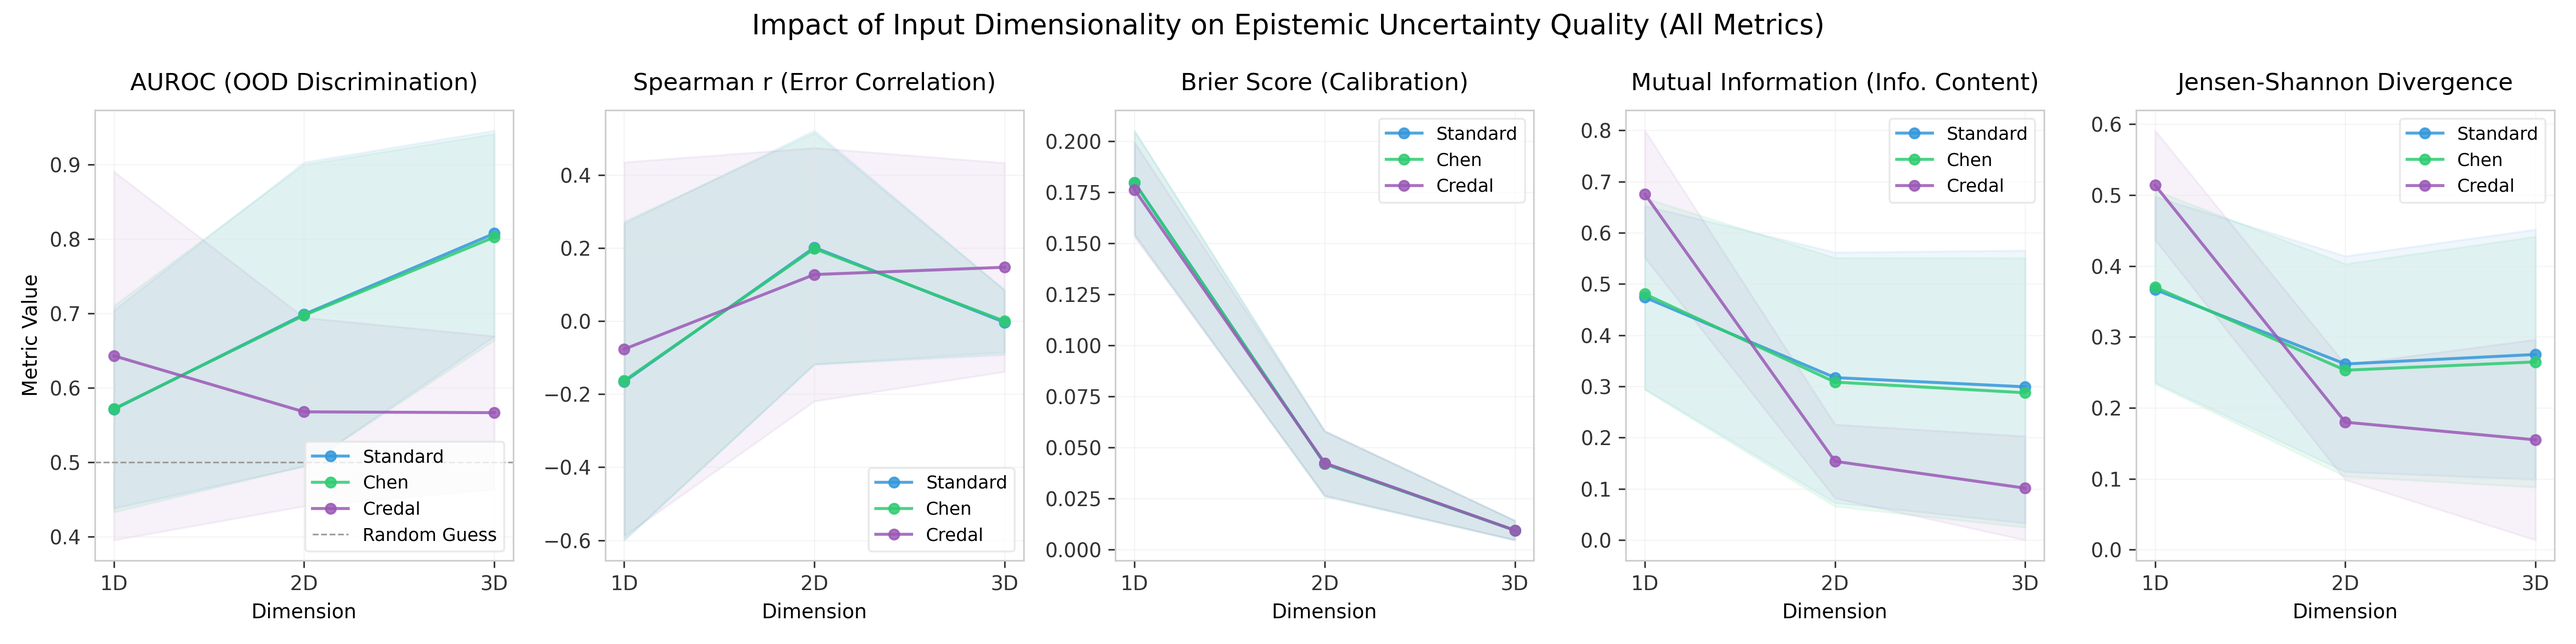
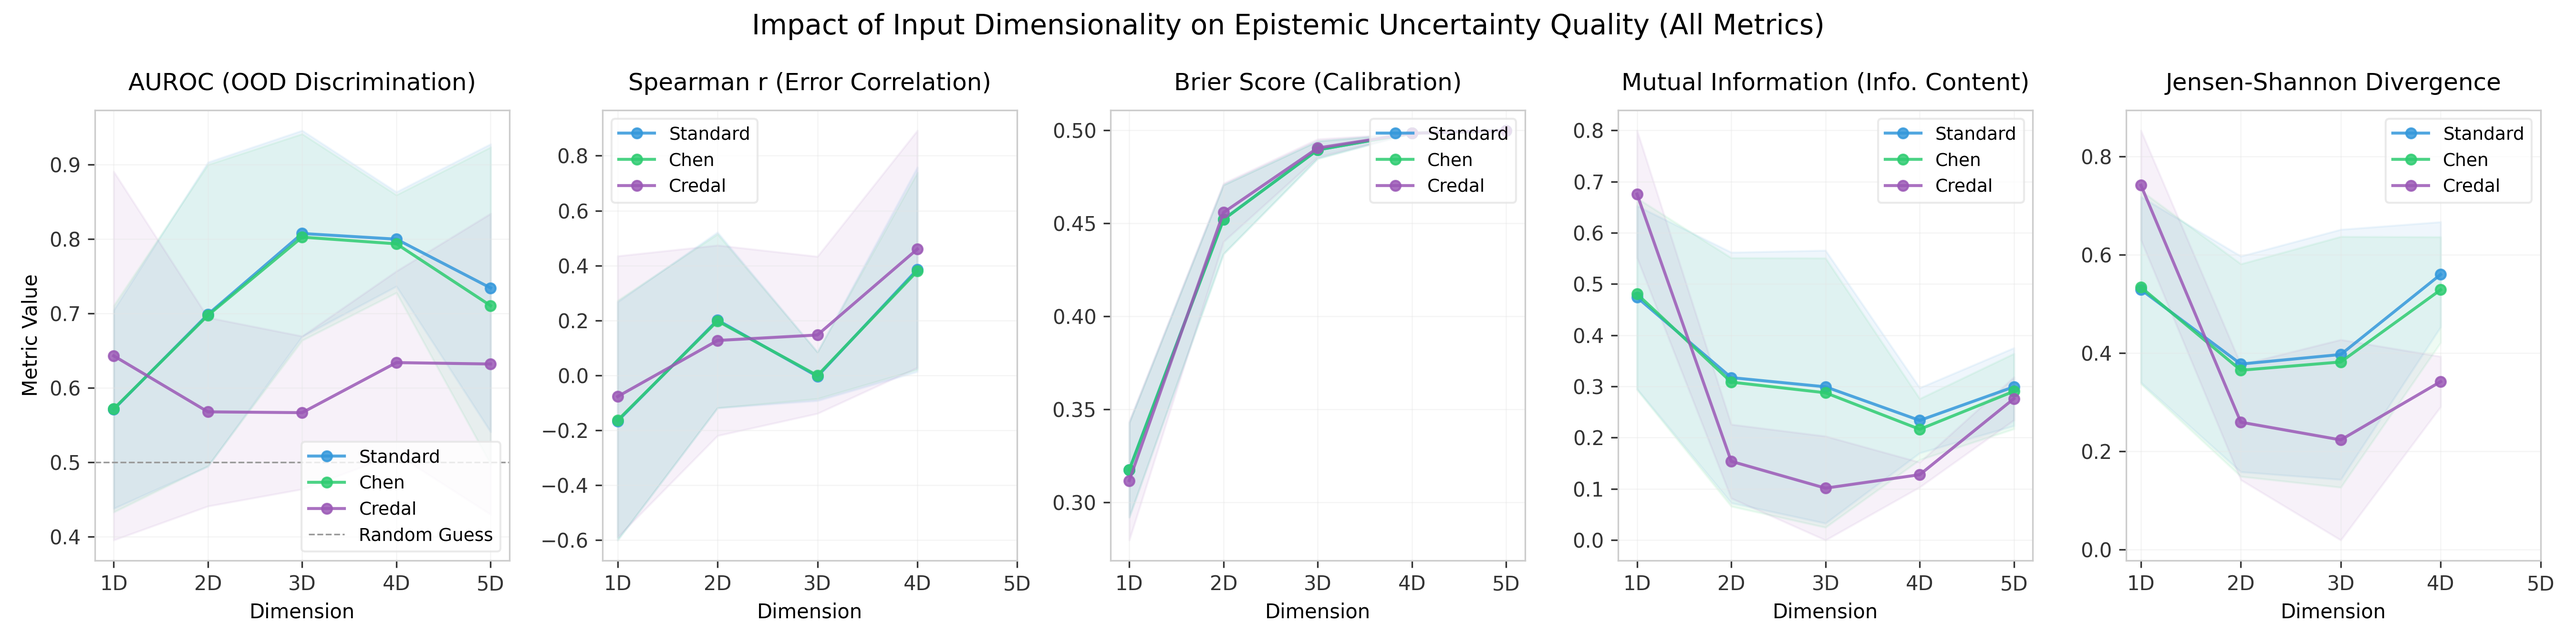
Update UQ results with 4D/5D data and regenerate visualizations

diff --git a/visualize_results.py b/visualize_results.py
@@ -31,11 +31,11 @@ colors = {
 
 # All Functions Summary
 all_funcs_data = {
-    "auroc":    {"mean": [0.6924, 0.6905, 0.5925], "std": [0.1886, 0.1882, 0.1750]},
-    "spearman": {"mean": [0.0106, 0.0115, 0.0659], "std": [0.3493, 0.3479, 0.4060]},
-    "brier":    {"mean": [0.0771, 0.0770, 0.0760], "std": [0.0759, 0.0759, 0.0740]},
-    "mi":       {"mean": [0.3633, 0.3587, 0.3101], "std": [0.2459, 0.2487, 0.2784]},
-    "jsd":      {"mean": [0.3013, 0.2960, 0.2829], "std": [0.1611, 0.1639, 0.1940]}
+    "auroc":    {"mean": [0.7137, 0.7081, 0.6040], "std": [0.1810, 0.1835, 0.1738]},
+    "spearman": {"mean": [0.0731, 0.0729, 0.1316], "std": [0.3799, 0.3757, 0.4359]},
+    "brier":    {"mean": [0.4424, 0.4423, 0.4421], "std": [0.0737, 0.0737, 0.0768]},
+    "mi":       {"mean": [0.3356, 0.3286, 0.2792], "std": [0.2164, 0.2193, 0.2443]},
+    "jsd":      {"mean": [0.4556, 0.4440, 0.3971], "std": [0.2216, 0.2236, 0.2576]}
 }
 
 # Dimensional Breakdown Data
@@ -43,23 +43,37 @@ dim_data = {
     "1D": {
         "auroc":    {"mean": [0.5711, 0.5717, 0.6430], "std": [0.1333, 0.1388, 0.2477]},
         "spearman": {"mean": [-0.1661, -0.1634, -0.0769], "std": [0.4335, 0.4361, 0.5117]},
-        "brier":    {"mean": [0.1798, 0.1797, 0.1763], "std": [0.0255, 0.0254, 0.0232]},
+        "brier":    {"mean": [0.3174, 0.3173, 0.3116], "std": [0.0254, 0.0255, 0.0320]},
         "mi":       {"mean": [0.4738, 0.4804, 0.6755], "std": [0.1788, 0.1872, 0.1242]},
-        "jsd":      {"mean": [0.3668, 0.3701, 0.5139], "std": [0.1310, 0.1364, 0.0772]}
+        "jsd":      {"mean": [0.5292, 0.5340, 0.7415], "std": [0.1889, 0.1968, 0.1114]}
     },
     "2D": {
         "auroc":    {"mean": [0.6987, 0.6974, 0.5677], "std": [0.2044, 0.2025, 0.1268]},
         "spearman": {"mean": [0.2015, 0.1982, 0.1273], "std": [0.3200, 0.3165, 0.3467]},
-        "brier":    {"mean": [0.0420, 0.0420, 0.0424], "std": [0.0159, 0.0159, 0.0158]},
+        "brier":    {"mean": [0.4521, 0.4520, 0.4558], "std": [0.0185, 0.0186, 0.0157]},
         "mi":       {"mean": [0.3171, 0.3083, 0.1536], "std": [0.2447, 0.2427, 0.0721]},
-        "jsd":      {"mean": [0.2619, 0.2531, 0.1798], "std": [0.1521, 0.1498, 0.0813]}
+        "jsd":      {"mean": [0.3778, 0.3652, 0.2595], "std": [0.2194, 0.2162, 0.1173]}
     },
     "3D": {
         "auroc":    {"mean": [0.8074, 0.8025, 0.5666], "std": [0.1384, 0.1388, 0.1028]},
         "spearman": {"mean": [-0.0035, -0.0003, 0.1472], "std": [0.0888, 0.0849, 0.2859]},
-        "brier":    {"mean": [0.0094, 0.0094, 0.0094], "std": [0.0048, 0.0048, 0.0048]},
+        "brier":    {"mean": [0.4895, 0.4895, 0.4905], "std": [0.0047, 0.0047, 0.0048]},
         "mi":       {"mean": [0.2991, 0.2875, 0.1012], "std": [0.2665, 0.2630, 0.1015]},
-        "jsd":      {"mean": [0.2753, 0.2648, 0.1549], "std": [0.1763, 0.1768, 0.1414]}
+        "jsd":      {"mean": [0.3972, 0.3820, 0.2235], "std": [0.2544, 0.2551, 0.2039]}
+    },
+    "4D": {
+        "auroc":    {"mean": [0.7998, 0.7935, 0.6339], "std": [0.0634, 0.0657, 0.1229]},
+        "spearman": {"mean": [0.3856, 0.3798, 0.4600], "std": [0.3722, 0.3587, 0.4317]},
+        "brier":    {"mean": [0.4984, 0.4984, 0.4984], "std": [0.0000, 0.0000, 0.0000]},
+        "mi":       {"mean": [0.2335, 0.2162, 0.1275], "std": [0.0636, 0.0597, 0.0243]},
+        "jsd":      {"mean": [0.5601, 0.5289, 0.3421], "std": [0.1069, 0.1075, 0.0511]}
+    },
+    "5D": {
+        "auroc":    {"mean": [0.7342, 0.7104, 0.6320], "std": [0.1934, 0.2130, 0.2022]},
+        "spearman": {"mean": [np.nan, np.nan, np.nan], "std": [np.nan, np.nan, np.nan]},
+        "brier":    {"mean": [0.4999, 0.4999, 0.4999], "std": [0.0000, 0.0000, 0.0000]},
+        "mi":       {"mean": [0.2991, 0.2904, 0.2761], "std": [0.0761, 0.0736, 0.0419]},
+        "jsd":      {"mean": [np.nan, np.nan, np.nan], "std": [np.nan, np.nan, np.nan]}
     }
 }
 
@@ -84,7 +98,7 @@ for idx, app in enumerate(approaches):
                     error_kw=dict(ecolor='#555555', lw=0.8, capsize=3, capthick=0.8))
 
 ax1.set_ylabel('Score / Value')
-ax1.set_title('Epistemic Uncertainty Quantification: Performance Across 15 Functions', pad=15)
+ax1.set_title('Epistemic Uncertainty Quantification: Performance Across 20 Functions', pad=15)
 ax1.set_xticks(x)
 ax1.set_xticklabels(metric_labels)
 ax1.legend(frameon=True, facecolor='white', edgecolor='#e5e5e5')
@@ -106,7 +120,7 @@ print(f"✓ Saved: {fig1_path}")
 print("Generating Plot 2: Dimensionality Trend...")
 fig2, axes = plt.subplots(1, 5, figsize=(18, 4.5))
 
-dims = ["1D", "2D", "3D"]
+dims = ["1D", "2D", "3D", "4D", "5D"]
 x_dims = np.arange(len(dims))
 
 # Setup subplots details
@@ -123,11 +137,16 @@ for ax, metric_key, title, subtitle in axes_config:
         means = [dim_data[d][metric_key]["mean"][idx] for d in dims]
         stds = [dim_data[d][metric_key]["std"][idx] for d in dims]
         
+        # Convert to numpy array to handle nans gracefully
+        means_arr = np.array(means, dtype=float)
+        stds_arr = np.array(stds, dtype=float)
+        valid = ~np.isnan(means_arr)
+        
         # Plot line
-        ax.plot(x_dims, means, marker='o', linewidth=1.5, markersize=5,
+        ax.plot(x_dims[valid], means_arr[valid], marker='o', linewidth=1.5, markersize=5,
                 label=app, color=colors[app], alpha=0.85)
         # Plot standard error band
-        ax.fill_between(x_dims, np.array(means) - np.array(stds), np.array(means) + np.array(stds),
+        ax.fill_between(x_dims[valid], means_arr[valid] - stds_arr[valid], means_arr[valid] + stds_arr[valid],
                         color=colors[app], alpha=0.08)
         
     ax.set_title(title, pad=10)
